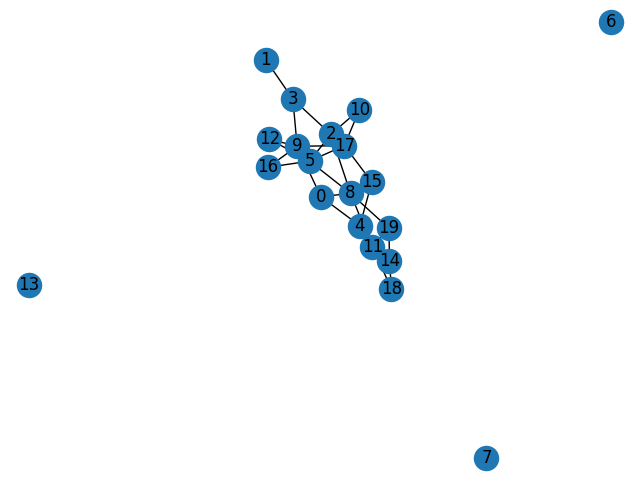
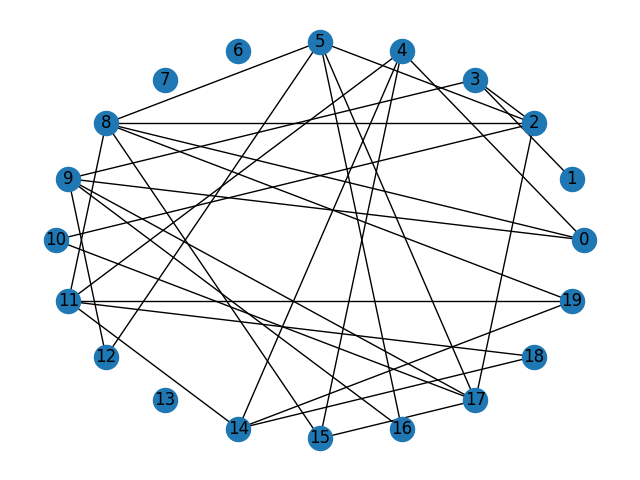
.

diff --git a/generate/visual.py b/generate/visual.py
@@ -23,7 +23,6 @@ with open(opt.f, "rt") as f:
         i, j, w = line.split()
         i, j, w = int(i), int(j), int(w)
         Graph.add_edge(i, j, weight=w)
-# pos = nx.circular_layout(Graph)
-nx.draw_shell(Graph, with_labels=True)
+nx.draw_circular(Graph, with_labels=True)
 
 plt.savefig(opt.o)
